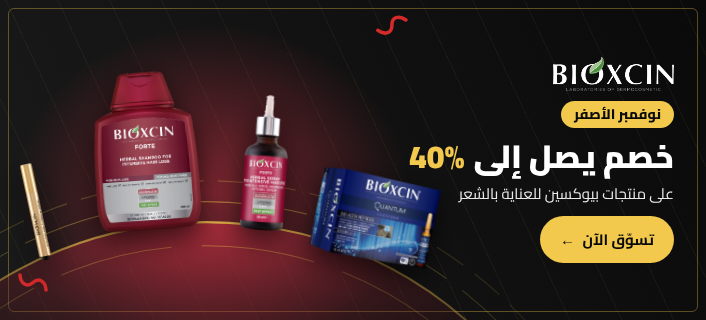
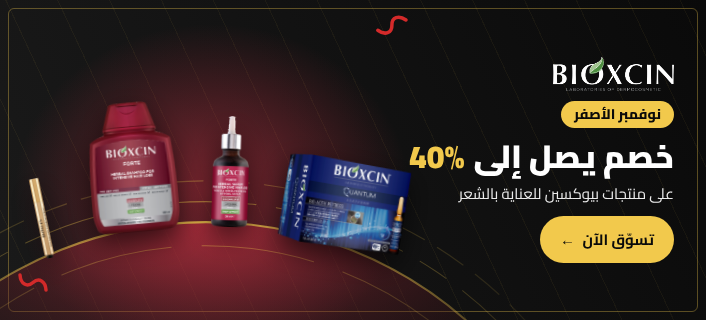
Offer 1 arc: keep all products inside the frame, bigger Quantum box, no overlaps
Claude-Session: https://claude.ai/code/session_01MejyVmSq2aYVYmituLqweB

Changed region(s): [[0.1246, 0.2188, 0.6232, 0.875], [0.0312, 0.5, 0.0935, 0.8125]]

diff --git a/banners/banners.js b/banners/banners.js
@@ -151,7 +151,7 @@ function arcVerticalHTML(offer, size, lang, cls, style) {
     const x = cx + R * Math.sin(rad), y = cy - R * Math.cos(rad);
     const h = base * (1 - 0.32 * Math.abs(a) / maxA) * (p.scale ?? 1);
     return `
-      <div class="arc-item" style="left:${x.toFixed(1)}px;top:${y.toFixed(1)}px;height:${h.toFixed(0)}px;transform:translate(-50%,-100%) rotate(${(a * 0.5).toFixed(1)}deg)">
+      <div class="arc-item" style="left:${xc.toFixed(1)}px;top:${y.toFixed(1)}px;height:${h.toFixed(0)}px;transform:translate(-50%,-100%) rotate(${(a * 0.5).toFixed(1)}deg)">
         ${p.image ? `<img src="${esc(p.image)}" alt="${esc(p.name?.[lang] ?? "")}">` : ""}
       </div>`;
   }).join("");
@@ -191,7 +191,7 @@ function arcVerticalHTML(offer, size, lang, cls, style) {
 
 // Geometry of the arc stage per banner size (LTR coordinates; mirrored for RTL).
 const ARC_STAGE = {
-  "mobile-vertical-hero": { x: 60, w: 680, top: 720, base: 340, maxA: 30, slot: { y: 770, h: 210, w: 620 } },
+  "mobile-vertical-hero": { x: 30, w: 740, top: 720, base: 340, maxA: 30, slot: { y: 770, h: 210, w: 620 } },
   "desktop-hero": { x: 560, w: 700, top: 206, base: 175, maxA: 16, slot: { y: 210, h: 84, w: 330 } },
   "mobile-hero": { x: 300, w: 400, top: 222, base: 175, maxA: 24, slot: { y: 226, h: 88, w: 260 } },
   "mobile-slim": { x: 330, w: 400, top: 136, base: 118, maxA: 20, slot: { y: 140, h: 56, w: 220 } },
@@ -228,12 +228,26 @@ function arcStageHTML(offer, size, lang) {
   const R = half / Math.sin((g.maxA * Math.PI) / 180);
   const cy = g.top + R;
   const id = `${offer.id}-${size.id}-${lang}`;
-  const items = products.map((p, i) => {
-    const a = n === 1 ? 0 : -g.maxA + (2 * g.maxA * i) / (n - 1);
-    const rad = (a * Math.PI) / 180;
-    const x = cx + R * Math.sin(rad), y = cy - R * Math.cos(rad);
-    const h = g.base * (1 - 0.3 * Math.abs(a) / g.maxA) * (p.scale ?? 1);
+  // Size each product, then lay them side by side along the arc so none overlap
+  // and all stay inside the stage. Shrink everything if they don't fit.
+  const sizes = products.map((p, i) => {
+    const t = n === 1 ? 0 : -1 + (2 * i) / (n - 1);
+    const h = g.base * (1 - 0.3 * Math.abs(t)) * (p.scale ?? 1);
     const w = Math.max(h * 0.7, (g.w * 0.8 / n) * 1.1) * (p.zoom ?? 1);
+    return { p, h, w };
+  });
+  const gap = g.w * 0.02;
+  const avail = g.w * 0.96;
+  let total = sizes.reduce((sum, it) => sum + it.w, 0) + gap * (n - 1);
+  const k2 = Math.min(1, avail / total);
+  sizes.forEach((it) => { it.w *= k2; it.h *= k2; });
+  total = total * k2;
+  let cursor = cx - total / 2;
+  const items = sizes.map(({ p, h, w }) => {
+    const x = cursor + w / 2;
+    cursor += w + gap * k2;
+    const a = (Math.asin(Math.max(-1, Math.min(1, (x - cx) / R))) * 180) / Math.PI;
+    const y = cy - Math.sqrt(Math.max(0, R * R - (x - cx) ** 2));
     return `<div class="arc-item" style="left:${x.toFixed(1)}px;top:${(y + 4).toFixed(1)}px;height:${h.toFixed(0)}px;width:${w.toFixed(0)}px;transform:translate(-50%,-100%) rotate(${(a * 0.5).toFixed(1)}deg)">
         ${p.image ? `<img src="${esc(p.image)}" alt="">` : ""}</div>`;
   }).join("");

diff --git a/banners/offers.js b/banners/offers.js
@@ -55,7 +55,7 @@ const OFFERS = [
       { name: { en: "Eyelash & Eyebrow Serum", ar: "سيروم الرموش والحواجب" }, image: "products/bioxcin-eyelash-serum.png", scale: 0.8, price: "", oldPrice: "" },
       { name: { en: "Forte Herbal Shampoo", ar: "شامبو فورت العشبي" }, image: "products/bioxcin-forte-shampoo.png", scale: 1, price: "", oldPrice: "" },
       { name: { en: "Forte Herbal Serum", ar: "سيروم فورت العشبي" }, image: "products/bioxcin-forte-serum.png", scale: 0.86, price: "", oldPrice: "" },
-      { name: { en: "Quantum Bio-Activ Serum", ar: "سيروم كوانتم بيو أكتيف" }, image: "products/bioxcin-quantum-serum.png", scale: 0.78, zoom: 1.35, price: "", oldPrice: "" },
+      { name: { en: "Quantum Bio-Activ Serum", ar: "سيروم كوانتم بيو أكتيف" }, image: "products/bioxcin-quantum-serum.png", scale: 0.95, zoom: 1.7, price: "", oldPrice: "" },
     ],
  },
   {
